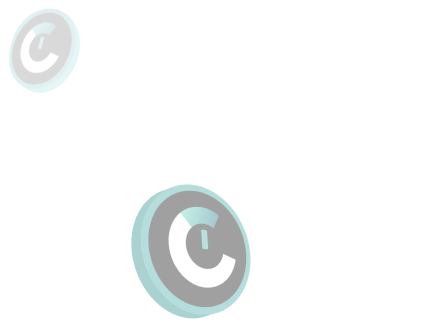
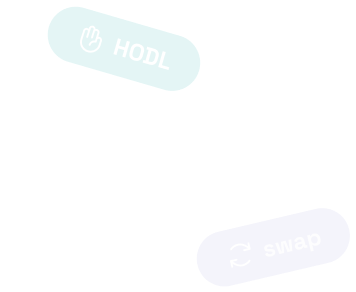
add blue on container

Changed region(s): [[0.0, 0.0, 0.5871, 0.3082], [0.309, 0.524, 0.5871, 0.9555]]

diff --git a/src/index.css b/src/index.css
@@ -2,14 +2,24 @@
 @tailwind components;
 @tailwind utilities;
 
-@import url('https://fonts.googleapis.com/css2?family=Space+Grotesk:wght@300;400;500;600;700&display=swap');
-@import url('https://fonts.googleapis.com/css2?family=Inter:wght@100;200;300;400;500;600;700;800;900&display=swap');
+@import url("https://fonts.googleapis.com/css2?family=Space+Grotesk:wght@300;400;500;600;700&display=swap");
+@import url("https://fonts.googleapis.com/css2?family=Inter:wght@100;200;300;400;500;600;700;800;900&display=swap");
 
 body {
   margin: 0;
-  font-family: 'Space Grotesk', sans-serif;
+  font-family: "Space Grotesk", sans-serif;
   -webkit-font-smoothing: antialiased;
   -moz-osx-font-smoothing: grayscale;
   background: #121212;
   color: white;
+}
+
+.container {
+  background: linear-gradient(
+    92deg,
+    rgba(255, 255, 255, 0.14) 0%,
+    rgba(255, 255, 255, 0) 111.54%
+  );
+  -webkit-backdrop-filter: blur(12.9px);
+  backdrop-filter: blur(12.9px);
 }

diff --git a/src/pages/credPoints/banner/index.tsx b/src/pages/credPoints/banner/index.tsx
@@ -3,10 +3,10 @@ import PrimaryButton from "../../../components/primaryButton";
 const Banner = () => {
   return (
     <div
-      className="relative mt-8 pb-4 md:pb-0 w-full flex flex-col-reverse gap-10 md:gap-0 md:flex-row justify-between items-center border border-gray-light-2 rounded-xl bg-black"
+      className="container relative mt-8 pb-4 md:pb-0 w-full flex flex-col-reverse gap-10 md:gap-0 md:flex-row justify-between items-center border border-[#f9bffeeb] rounded-xl bg-black"
       style={{
         background:
-          "linear-gradient(91.58deg, rgba(170, 114, 180, 0.44) 0%, rgba(107, 55, 172, 0.44) 111.54%),linear-gradient(101.36deg, rgba(249, 191, 254, 0.736) 13.84%, rgba(238, 170, 243, 0.32) 66.32%), black",
+          "linear-gradient(92deg, rgba(170, 114, 180, 0.44) 0%, rgba(107, 55, 172, 0.44) 111.54%)",
       }}
     >
       <div className="px-4 md:px-12 flex flex-col justify-center gap-4">

diff --git a/src/pages/credPoints/myTotal/index.tsx b/src/pages/credPoints/myTotal/index.tsx
@@ -10,11 +10,7 @@ const MyTotal = () => {
     <div className="flex flex-col items-center bg-black">
       <h1 className="text-2xl md:text-3xl font-bold">MY TOTAL CRED POINTS</h1>
       <div
-        className="relative mt-4 px-8 py-1 flex gap-2 justify-center items-center border-[3px] md:border-4 border-primary-default rounded-full "
-        style={{
-          background:
-            "linear-gradient(94.74deg, rgba(255, 255, 255, 0.14) 16.43%, rgba(255, 255, 255, 0) 108.74%)",
-        }}
+        className="container relative mt-4 px-8 py-1 w-auto flex gap-2 justify-center items-center border-[3px] md:border-4 border-primary-default rounded-full"
       >
         <p className="text-[38px] md:text-[57px] font-semibold">{myPoint}</p>
         <img src="/credpoints/cred.svg" alt="cred" className="w-9 md:w-[54px]" />

diff --git a/src/pages/credPoints/index.css b/src/pages/credPoints/index.css
@@ -28,25 +28,25 @@
   transform-origin-x: 100%;
 }
 
-.effect1 {
-  top: 0vh;
-  left: 10vw;
+.cred__effect1 {
+  top: 0vh !important;
+  left: 10vw !important;
 
   -webkit-transform: translate3d(0, 0, -300px) scale(2);
   transform: translate3d(0, 0, -300px) scale(2);
   z-index: 1;
 }
-.effect2 {
-  top: 1600px;
-  left: 10vw;
-
+.cred__effect2 {
+  top: 700px !important;
+  left: 75vw !important;
+  
   -webkit-transform: translate3d(0, 0, -300px) scale(2);
   transform: translate3d(0, 0, -300px) scale(2);
   z-index: 1;
 }
-.effect3 {
-  top: 700px;
-  left: 60vw;
+.cred__effect3 {
+  top: 1600px !important;
+  left: -56vw !important;
 
   -webkit-transform: translate3d(0, 0, -300px) scale(1);
   transform: translate3d(0, 0, -300px) scale(1);

diff --git a/src/pages/credPoints/index.tsx b/src/pages/credPoints/index.tsx
@@ -12,13 +12,13 @@ const CredPoints = () => {
     <div className="parallax">
       <Header />
       <div className="parallax__group">
-        <div className="parallax__layer effect1">
+        <div className="parallax__layer cred__effect1">
           <img src="/credpoints/effect1.png" alt="effect1" />
         </div>
-        <div className="parallax__layer effect2">
+        <div className="parallax__layer cred__effect2">
           <img src="/credpoints/effect2.png" alt="effect2" />
         </div>
-        <div className="parallax__layer effect3">
+        <div className="parallax__layer cred__effect3">
           <img src="/credpoints/effect3.png" alt="effect3" />
         </div>
       </div>

diff --git a/src/pages/credPoints/cards/nft/index.tsx b/src/pages/credPoints/cards/nft/index.tsx
@@ -4,11 +4,7 @@ const LongestNft = () => {
   const isLive = useAppSelector((state) => state.credpointsState.isLive);
   return (
     <div
-      className="w-[220px] md:w-[320px] min-h-[140px] px-4 pt-4 flex flex-col items-center border border-gray-light-2 rounded-xl"
-      style={{
-        background:
-          "linear-gradient(94.74deg, rgba(255, 255, 255, 0.14) 16.43%, rgba(255, 255, 255, 0) 108.74%)",
-      }}
+      className="container w-[220px] md:w-[320px] min-h-[140px] px-4 pt-4 flex flex-col items-center border border-gray-light-2 rounded-xl"
     >
       {isLive ? (
         <>

diff --git a/src/pages/credPoints/cards/apt/index.tsx b/src/pages/credPoints/cards/apt/index.tsx
@@ -4,11 +4,7 @@ const Apt = () => {
   const isLive = useAppSelector((state) => state.credpointsState.isLive);
   return (
     <div
-      className="w-[220px] md:w-[320px] min-h-[140px]  px-4 pt-4 flex flex-col items-center border border-gray-light-2 rounded-xl"
-      style={{
-        background:
-          "linear-gradient(94.74deg, rgba(255, 255, 255, 0.14) 16.43%, rgba(255, 255, 255, 0) 108.74%)",
-      }}
+      className="container w-[220px] md:w-[320px] min-h-[140px]  px-4 pt-4 flex flex-col items-center border border-gray-light-2 rounded-xl"
     >
       {isLive ? (
         <>

diff --git a/src/pages/credPoints/nftBoard/index.tsx b/src/pages/credPoints/nftBoard/index.tsx
@@ -9,7 +9,7 @@ const NftBoard = () => {
   const [isModal, toggleModal] = useState(false);
   const isLive = useAppSelector((state) => state.credpointsState.isLive);
   return (
-    <div className="mt-4 w-full flex border border-gray-light-2 rounded-xl bg-black">
+    <div className="container mt-4 w-full flex border border-gray-light-2 rounded-xl">
       <div className="min-w-full md:min-w-[50%] p-6 flex flex-col justify-center items-center gap-4">
         <PointLogo />
         <p className="text-2xl font-bold">from hodling NFT</p>

diff --git a/src/pages/credPoints/cards/liquidSwap/index.tsx b/src/pages/credPoints/cards/liquidSwap/index.tsx
@@ -5,11 +5,7 @@ const LiquidSwap = () => {
 
   return (
     <div
-      className="w-[220px] md:w-[320px] min-h-[140px]  px-4 pt-4 flex flex-col items-center border border-gray-light-2 rounded-xl"
-      style={{
-        background:
-          "linear-gradient(94.74deg, rgba(255, 255, 255, 0.14) 16.43%, rgba(255, 255, 255, 0) 108.74%)",
-      }}
+      className="container w-[220px] md:w-[320px] min-h-[140px]  px-4 pt-4 flex flex-col items-center border border-gray-light-2 rounded-xl"
     >
       {isLive ? (
         <>

diff --git a/src/pages/credPoints/liquidswapHistory/index.tsx b/src/pages/credPoints/liquidswapHistory/index.tsx
@@ -10,7 +10,7 @@ const LiquidSwapHistory = () => {
   const isLive = useAppSelector((state) => state.credpointsState.isLive);
 
   return (
-    <div className="mt-4 w-full flex border border-gray-light-2 rounded-xl bg-black">
+    <div className="container mt-4 w-full flex border border-gray-light-2 rounded-xl">
       <div className="min-w-full md:min-w-[50%] p-6 flex flex-col justify-center items-center gap-4">
         <PointLogo />
         <p className="text-2xl font-bold">from DeFi trading</p>
